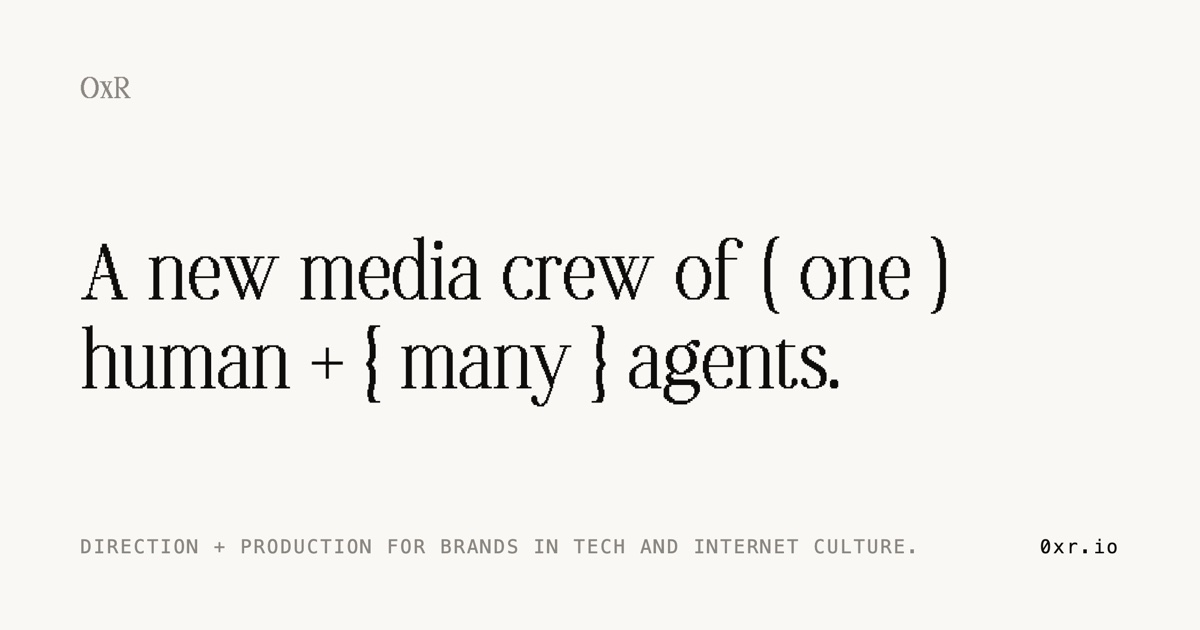
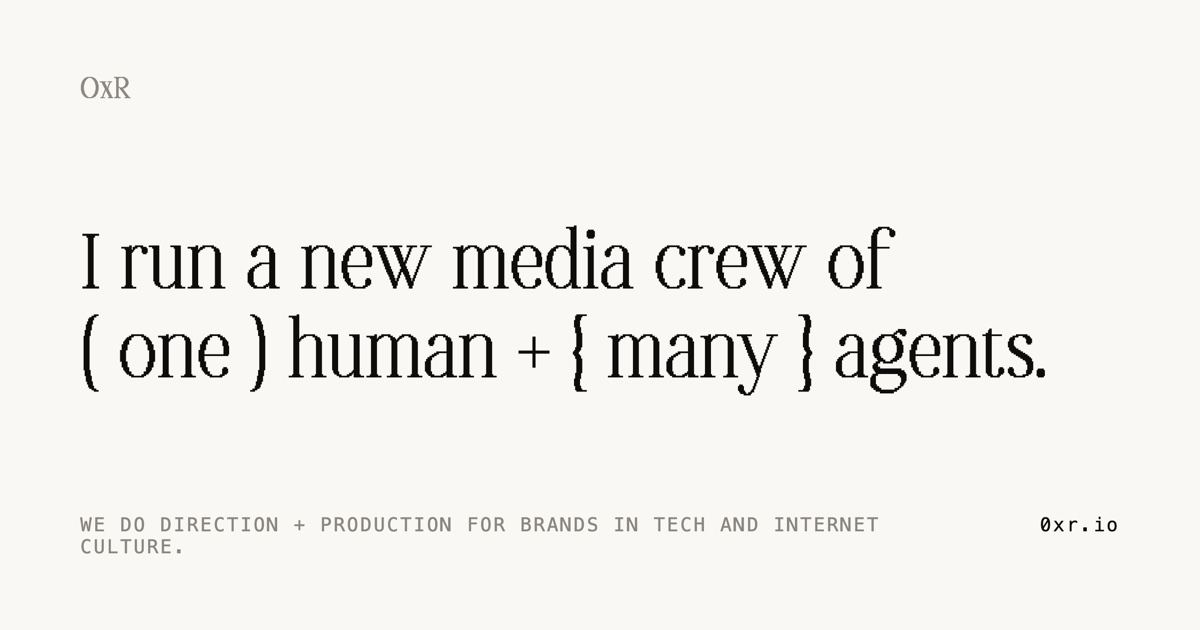
fix: the crew stop replaying their arrival on a phone scroll
A mobile browser fires resize on every scroll, because its URL bar slides away
and the viewport gets shorter. The hero rebuilt its figures on resize, so the
arrival replayed each time. Only a width change can alter their scale, so
height changes are ignored now.

The hero says "I run", matching the who page. The crew grid on the what page
drops its column minimum to 9rem, so a phone gets two figures per row and the
block falls from 1933px to 1020px, measured at a true 375.

Changed region(s): [[0.0617, 0.3619, 0.8942, 0.6635], [0.0617, 0.8143, 0.7708, 0.8746], [0.8633, 0.8143, 0.925, 0.8746]]

diff --git a/index.html b/index.html
@@ -230,7 +230,7 @@
     <header class="hero">
   <div class="wrap">
     <p class="hello" data-scramble="mount" data-delay="0">Hello world, I'm Rodrigo Rivas&nbsp;Yassin.</p>
-    <h1 data-scramble="mount" data-delay="60">I have a new media crew of (&nbsp;one&nbsp;) human + {&nbsp;many&nbsp;}&nbsp;agents.</h1>
+    <h1 data-scramble="mount" data-delay="60">I run a new media crew of (&nbsp;one&nbsp;) human + {&nbsp;many&nbsp;}&nbsp;agents.</h1>
     <p class="sub">We do direction + production for brands in tech and internet&nbsp;culture.</p>
   </div>
     <div class="stage" id="stage" aria-hidden="true">
@@ -296,8 +296,15 @@
       crew3d.neighbours(handles);
     };
     build();
-    let t = 0;
-    addEventListener("resize", () => { clearTimeout(t); t = setTimeout(build, 200); });
+    let t = 0, lastW = innerWidth;
+    addEventListener("resize", () => {
+      /* a phone fires resize on every scroll: its URL bar slides away and the
+         viewport gets shorter. Only a width change can alter the scale, and
+         rebuilding on height replayed the arrival on every scroll. */
+      if (innerWidth === lastW) return;
+      lastW = innerWidth;
+      clearTimeout(t); t = setTimeout(build, 200);
+    });
   });
   </script>
   <script src="nav.js" defer></script>

diff --git a/what.html b/what.html
@@ -146,7 +146,7 @@
      is a link and nothing is a logo: state is fill and weight only. ── */
   .crew {
     margin-top: 1.6rem; display: grid; gap: 1.2rem clamp(1.4rem, 4vw, 2.4rem);
-    grid-template-columns: repeat(auto-fit, minmax(min(100%, 13rem), 1fr));
+    grid-template-columns: repeat(auto-fit, minmax(min(100%, 9rem), 1fr));
     max-width: 46rem;
   }
   .fig { display: block; margin: 0 0 0.5rem; image-rendering: pixelated; }
